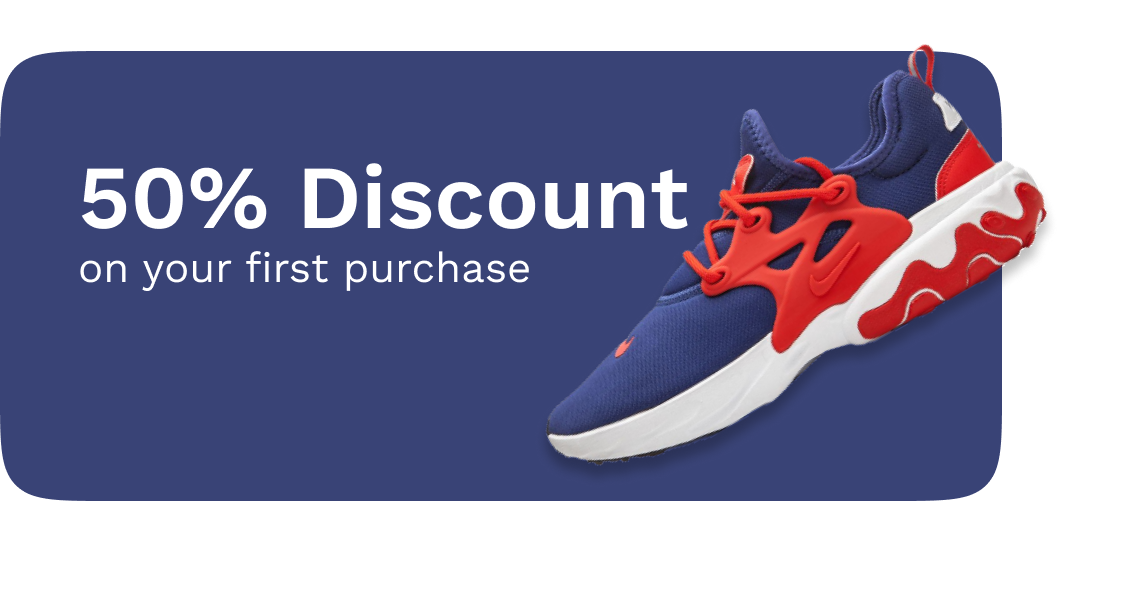
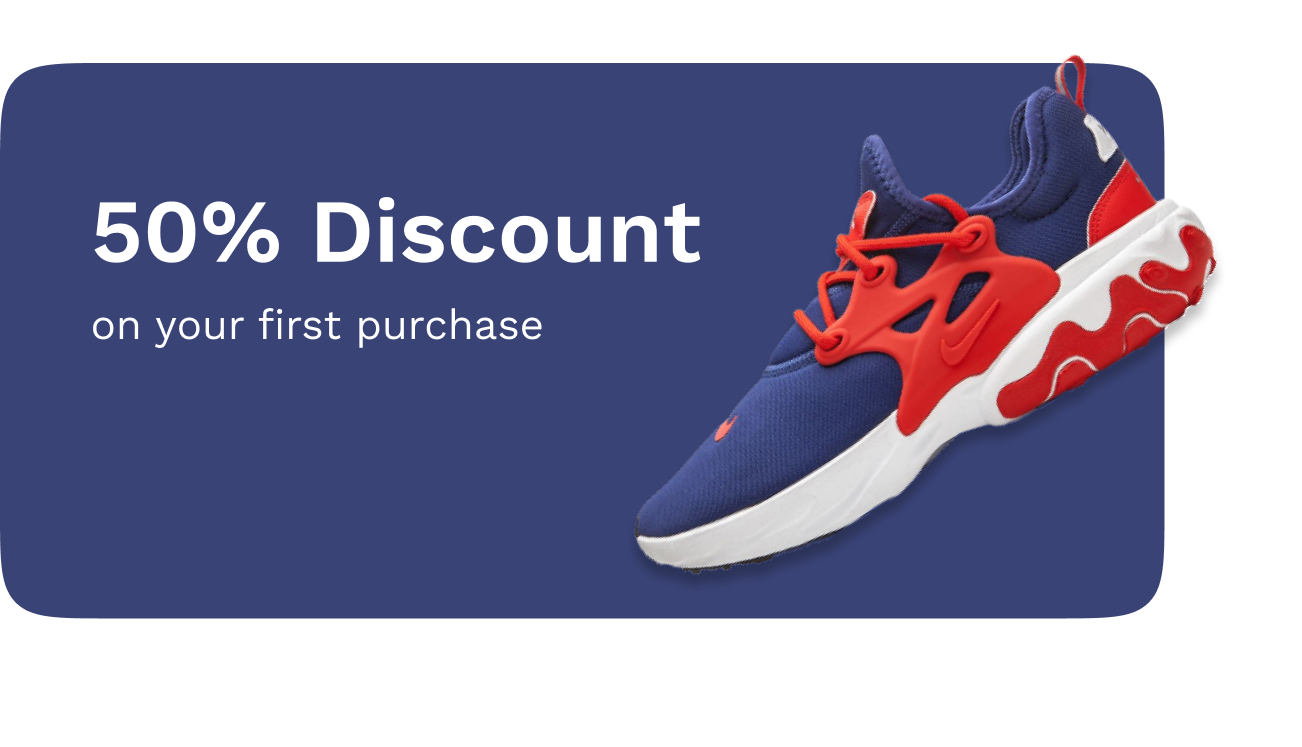
.

diff --git a/lib/Screen/HomeScreen.dart b/lib/Screen/HomeScreen.dart
@@ -32,6 +32,8 @@ class _HomeScreenState extends State<HomeScreen> {
         body: Stack(children: [
           SingleChildScrollView(
             child: Column(
+              mainAxisAlignment: MainAxisAlignment.center,
+              crossAxisAlignment: CrossAxisAlignment.center,
               children: [
                 Padding(
                   padding: const EdgeInsets.only(left: 20, top: 12),
@@ -76,22 +78,19 @@ class _HomeScreenState extends State<HomeScreen> {
                 ),
                 Column(
                   children: [
-                    Center(
-                      child: Container(
-                        height: 200,
-                        width: 400,
-                        child: PageView(
-                          controller: Controller,
-                          scrollDirection: Axis.horizontal,
-                          children: [
-                            Promotion(
-                              image: 'lib/assets/pic/banner/bannerDiscount.png',
-                            ),
-                            Recommend(
-                                image:
-                                    'lib/assets/pic/banner/bannerRecommend.png'),
-                          ],
-                        ),
+                    Container(
+                      height: 220,
+                      child: PageView(
+                        controller: Controller,
+                        scrollDirection: Axis.horizontal,
+                        children: [
+                          Promotion(
+                            image: 'lib/assets/pic/banner/bannerDiscount.png',
+                          ),
+                          Recommend(
+                              image:
+                                  'lib/assets/pic/banner/bannerRecommend.png'),
+                        ],
                       ),
                     ),
                     Padding(
